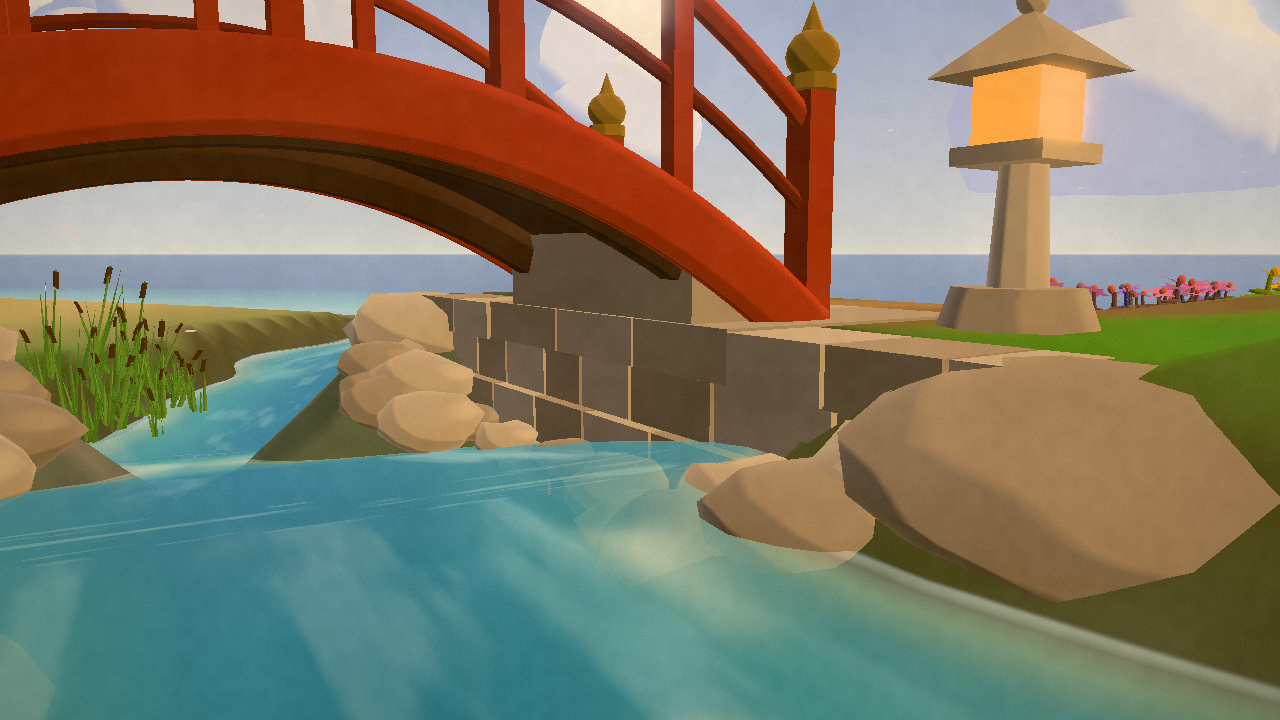
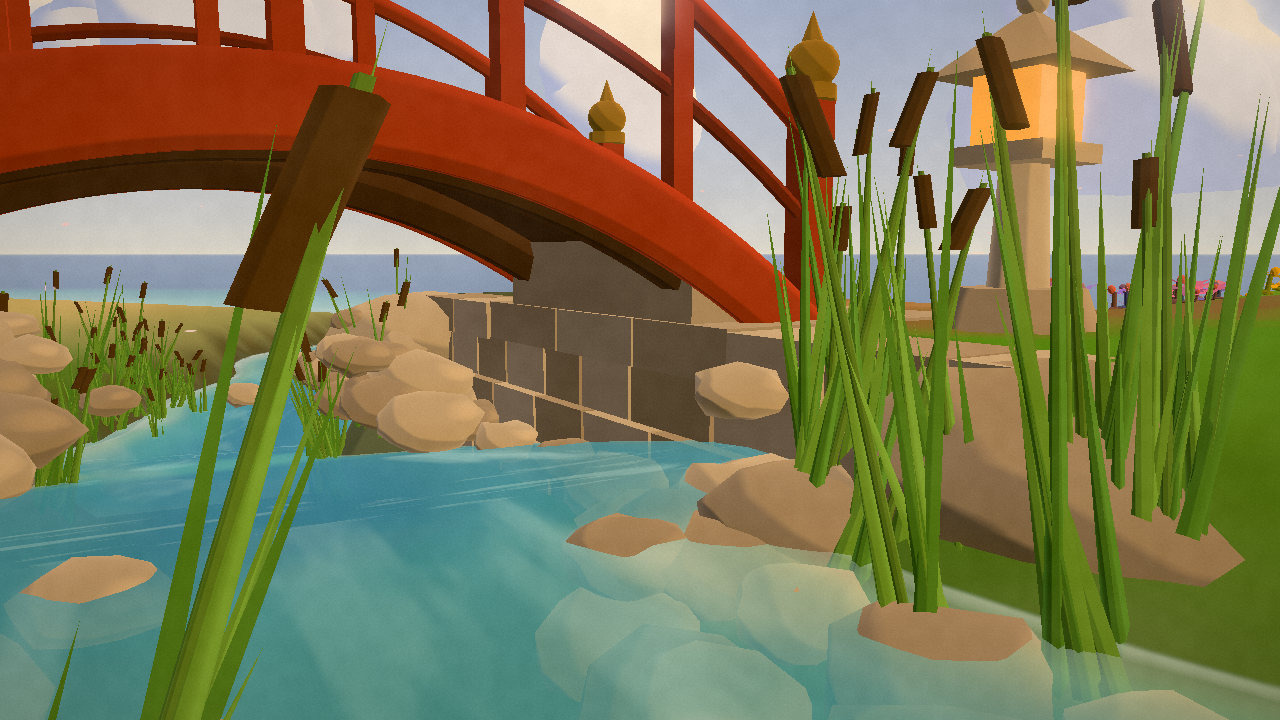
bridge: deck ends flush with the threshold, riprap and rushes on the abutment banks, steeper grassy bank shoulders, grass down to the brook edge

diff --git a/src/models/brook.ts b/src/models/brook.ts
@@ -485,7 +485,7 @@ function createWeir(): THREE.Group {
 
 // ---------------------------------------------------------------- bridge
 const BR_L = 2 * BR_ABUT.ends, BR_A = 0.95, BR_HALF_W = 0.95;
-const deckY = (u: number) => BR_ABUT.coping + 0.04 + BR_A * (1 - (2 * u / BR_L) ** 2);
+const deckY = (u: number) => BR_ABUT.coping - 0.005 + BR_A * (1 - (2 * u / BR_L) ** 2);
 function createBridge(): THREE.Group {
   const g = new THREE.Group();
   g.position.set(BRIDGE.x, 0, BRIDGE.z); g.rotation.y = Math.atan2(BRIDGE_DIR.x, BRIDGE_DIR.y); // local z along the path
@@ -523,6 +523,10 @@ function createBridge(): THREE.Group {
       quad(u0 + seam, u1, 0, cA.clone().lerp(cB, pr()));
     }
     for (let i = 0; i < nP; i++) quad(-ends + (i / nP) * BR_L, -ends + ((i + 1) / nP) * BR_L, -0.1, cU, true);
+    // a sill board across each end, flush with the coping, hides the deck's end grain
+    for (const e of [-1, 1]) { const k = pos.length / 3, y = BR_ABUT.coping - 0.012, u0 = e * ends, u1 = e * (ends + 0.12);
+      pos.push(-hw, y, u0, hw, y, u0, hw, y, u1, -hw, y, u1); for (let q2 = 0; q2 < 4; q2++) col.push(cS.r, cS.g, cS.b);
+      if (e > 0) ind.push(k, k + 2, k + 1, k, k + 3, k + 2); else ind.push(k, k + 1, k + 2, k, k + 2, k + 3); }
     const dg = new THREE.BufferGeometry();
     dg.setAttribute('position', new THREE.Float32BufferAttribute(pos, 3)); dg.setAttribute('color', new THREE.Float32BufferAttribute(col, 3)); dg.setIndex(ind);
     dg.computeVertexNormals();
@@ -582,6 +586,25 @@ function createBridge(): THREE.Group {
     for (const s2 of [-1, 1]) for (let q = 0; q < 5; q++) { const tq = q / 4;
       const rk = new THREE.Mesh(blob(0.26 + pr() * 0.1, 1, 0.3, q + s2 * 3 + sgn * 11, 0.6), q % 2 ? stoneDk : stone);
       rk.position.set(s2 * (wr - 1.3 + tq * 1.0 + (q % 2) * 0.15), lvl - 0.1 + tq * 0.4, sgn * (f - 0.25 - (1 - tq) * 0.2 - (q % 2) * 0.2)); g.add(rk); }
+    // riprap armouring the bank slopes beside the wall, laid along wherever the slope meets the water
+    for (const s2 of [-1, 1]) for (let q = 0; q < 9; q++) {
+      const ww2 = wr - 1.3 + q * 0.42 + (pr() - 0.5) * 0.15;
+      let dd = 0.2;
+      for (; dd < 3.2; dd += 0.05) { const uu = f - dd, wxp = BRIDGE.x + BRIDGE_DIR.y * s2 * ww2 + BRIDGE_DIR.x * sgn * uu, wzp = BRIDGE.z - BRIDGE_DIR.x * s2 * ww2 + BRIDGE_DIR.y * sgn * uu; if (heightAt(wxp, wzp) < lvl + 0.02) break; }
+      if (dd >= 3.2) continue;
+      for (const o of [-0.12, 0.25]) {
+        const rk = new THREE.Mesh(blob(0.17 + pr() * 0.12, 1, 0.33, 90 + q * 3 + s2 * 5 + sgn * 31 + (o > 0 ? 1 : 0), 0.6), (q + (o > 0 ? 1 : 0)) % 2 ? stone : stoneDk);
+        const uu = f - dd - o, wxp = BRIDGE.x + BRIDGE_DIR.y * s2 * ww2 + BRIDGE_DIR.x * sgn * uu, wzp = BRIDGE.z - BRIDGE_DIR.x * s2 * ww2 + BRIDGE_DIR.y * sgn * uu;
+        rk.position.set(s2 * ww2, Math.max(heightAt(wxp, wzp), lvl - 0.12) + 0.03, sgn * uu); rk.rotation.y = pr() * 3; g.add(rk);
+      }
+    }
+    // the earth banks against the wall ends: tufts of rushes and a scatter of half-buried stones break the slope
+    for (const s2 of [-1, 1]) for (let q = 0; q < 4; q++) {
+      const rk = new THREE.Mesh(blob(0.14 + pr() * 0.1, 1, 0.35, 70 + q + s2 * 4 + sgn * 17, 0.55), q % 2 ? stoneDk : stone);
+      const dd = 0.3 + pr() * 1.0, ww2 = wr - 1.0 + pr() * 1.6;
+      const drop = yc - 0.03 - (lvl - 0.3);
+      rk.position.set(s2 * ww2, yc - 0.03 - drop * Math.min(1, (dd / 1.5) ** 1.6) + 0.02, sgn * (f - dd)); rk.rotation.y = pr() * 3; g.add(rk);
+    }
     // wall-end boulders: big mossy stones bedded where each wall end meets the bank, so no cut end shows
     for (const s2 of [-1, 1]) {
       const bg = blob(0.62 + pr() * 0.1, 1, 0.3, 40 + s2 * 5 + sgn * 9, 0.62);
@@ -686,6 +709,18 @@ function createBanks(): THREE.Group {
       ps.set(x, Math.max(heightAt(x, z), streamNearest(x, z).level - 0.25) - 0.05, z);
       e.set((rand() - 0.5) * 0.25, rand() * 6.28, (rand() - 0.5) * 0.25);
       const k2 = 0.55 + rand() * 0.4; sc.set(k2, k2 * (0.8 + rand() * 0.5), k2);
+      reeds.setMatrixAt(n++, mt.compose(ps, q.setFromEuler(e), sc));
+    }
+  }
+  // rushes on the earth banks against the bridge wall ends (real banks are overgrown there; hides the cut slope)
+  for (const sgn of [-1, 1]) for (const s2 of [-1, 1]) {
+    const wc = s2 * (BR_ABUT.wing - 0.1), uc = sgn * (BR_ABUT.face - 0.55);
+    for (let k = 0; k < 11 && n < 420; k++) {
+      const w = wc + (rand() - 0.5) * 1.3, u = uc + (rand() - 0.5) * 0.7 * sgn;
+      const x = BRIDGE.x + BRIDGE_DIR.y * w + BRIDGE_DIR.x * u, z = BRIDGE.z - BRIDGE_DIR.x * w + BRIDGE_DIR.y * u;
+      ps.set(x, Math.max(heightAt(x, z), streamNearest(x, z).level - 0.25) - 0.05, z);
+      e.set((rand() - 0.5) * 0.3, rand() * 6.28, (rand() - 0.5) * 0.3);
+      const k2 = 0.6 + rand() * 0.45; sc.set(k2, k2 * (0.85 + rand() * 0.5), k2);
       reeds.setMatrixAt(n++, mt.compose(ps, q.setFromEuler(e), sc));
     }
   }

diff --git a/src/world/terrain.ts b/src/world/terrain.ts
@@ -311,9 +311,10 @@ export const BR_ABUT = { face: BR_CW - 0.1, ends: BR_CW + 0.6, back: BR_CW + 1.5
       const k = smoothstep(wr + 3, wr + 0.6, w) * smoothstep(A.back + 6, A.back + 1.5, u);
       heights[idx(i, j)] = w <= wr + 0.6 ? lerp(h, plat, k) : lerp(h, Math.max(h, plat - (w - wr - 0.6) * 0.6), k);
     } else {
-      const ramp = Math.max(h, yc - 0.03 - Math.max(0, f - u) * 1.0);
+      const dd = Math.max(0, f - u), drop = yc - 0.03 - (streamNearest(x, z).level - 0.3);
+      const ramp = Math.max(h, yc - 0.03 - drop * Math.min(1, (dd / 0.7) ** 1.3));
       const deep = Math.min(h, streamNearest(x, z).level - 0.4);
-      const toRamp = smoothstep(wr - 1.4, wr - 0.5, w), toNat = smoothstep(wr + 0.4, wr + 2.0, w);
+      const toRamp = smoothstep(wr - 1.0, wr - 0.3, w), toNat = smoothstep(wr + 0.2, wr + 1.3, w);
       heights[idx(i, j)] = lerp(lerp(deep, ramp, toRamp), h, toNat);
     }
   }
@@ -439,13 +440,16 @@ export function surfaceAt(x: number, z: number): { color: THREE.Color; kind: Sur
   if (sd0 < 12) {
     const cw = channelHalf(st0);
     c.lerp(C.lush, smoothstep(9, 3, sd0) * 0.45);
-    const bankT = smoothstep(cw + 1.1, cw + 0.55, sd0);
+    let bankT = smoothstep(cw + 0.7, cw + 0.3, sd0);
+    // beside the bridge abutments the banks are grassed (and stone-armoured at the waterline), not bare earth
+    { const bx = x - BRIDGE.x, bz = z - BRIDGE.z, ba = Math.abs(bx * BRIDGE_DIR.x + bz * BRIDGE_DIR.y), bw = Math.abs(bx * BRIDGE_DIR.y - bz * BRIDGE_DIR.x);
+      if (ba < BR_ABUT.face + 0.5 && bw < BR_ABUT.wing + 3) bankT *= 0.25 + 0.75 * smoothstep(BR_ABUT.wing + 1.5, BR_ABUT.wing + 3, bw); }
     tmpRock.copy(C.bank).lerp(C.pebble, smoothstep(0.6, 0.85, fine) * 0.6);
     c.lerp(tmpRock, bankT * 0.85);
     const bedT = smoothstep(cw + 0.1, cw - 0.3, sd0);
     tmpRock.copy(C.bed).lerp(C.pebble, smoothstep(0.45, 0.8, fine) * 0.7);
     c.lerp(tmpRock, bedT);
-    grassiness *= 1 - smoothstep(cw + 1.0, cw + 0.5, sd0);
+    grassiness *= 1 - smoothstep(cw + 0.65, cw + 0.3, sd0);
     if (sd0 < cw * 0.8) kind = 'water';
   }
   // Worn dirt path with grassy, irregular edges.
@@ -453,7 +457,7 @@ export function surfaceAt(x: number, z: number): { color: THREE.Color; kind: Sur
   let pathT = smoothstep(1.35 + edgeNoise, 0.7 + edgeNoise, pd) * (sd0 < 12 ? smoothstep(channelHalf(st0) + 0.2, channelHalf(st0) + 0.9, sd0) : 1);
   // bridge approach: worn dirt right up to the threshold stones
   { const bx = x - BRIDGE.x, bz = z - BRIDGE.z, ba = Math.abs(bx * BRIDGE_DIR.x + bz * BRIDGE_DIR.y), bw = Math.abs(bx * BRIDGE_DIR.y - bz * BRIDGE_DIR.x);
-    if (ba > BR_ABUT.back - 0.7 && ba < BR_ABUT.back + 6) { const W = lerp(BR_ABUT.wide + 0.2, 0.95, smoothstep(BR_ABUT.back, BR_ABUT.back + 4, ba)); pathT = Math.max(pathT, smoothstep(W + 0.45 + edgeNoise * 0.5, W + edgeNoise * 0.5, bw)); } }
+    if (ba > BR_ABUT.back - 1.0 && ba < BR_ABUT.back + 6) { const W = lerp(BR_ABUT.wide + 0.35, 1.0, smoothstep(BR_ABUT.back + 0.5, BR_ABUT.back + 4.5, ba)); pathT = Math.max(pathT, smoothstep(W + 0.5 + edgeNoise * 0.5, W + edgeNoise * 0.4, bw)); } }
   if (pathT > 0) {
     tmpRock.copy(C.pathEdge).lerp(C.path, smoothstep(1.0, 0.3, pd));
     c.lerp(tmpRock, pathT);

diff --git a/src/world/grass.ts b/src/world/grass.ts
@@ -1,7 +1,7 @@
 import * as THREE from 'three';
 import { mulberry32, fbm2, smoothstep } from '../lib/noise';
 import { globalUniforms, CLOUD_SHADOW_GLSL } from '../render/toon';
-import { heightAt, surfaceAt, streamDistAt, streamTAt, channelHalf, MILL, MILL_YAW, BRIDGE, BRIDGE_DIR } from './terrain';
+import { heightAt, surfaceAt, streamDistAt, streamTAt, streamNearest, channelHalf, MILL, MILL_YAW, BRIDGE, BRIDGE_DIR } from './terrain';
 
 /**
  * Wind-blown grass: instanced tapered blades. Colour comes from the painted ground below,
@@ -50,7 +50,8 @@ export function createGrass(count = 140000, radius = 78) {
     const surf = surfaceAt(x, z);
     // authored clearings keep the shrine/bridge silhouettes readable from their reveal shots
     const shrineClear = Math.hypot(x - 30, z + 20) < 9;
-    const streamClear = streamDistAt(x, z) < channelHalf(streamTAt(x, z)) + 0.8;
+    const sdx = streamDistAt(x, z), scw = channelHalf(streamTAt(x, z));
+    const streamClear = sdx < scw + 0.1 || (sdx < scw + 2 && heightAt(x, z) < streamNearest(x, z).level + 0.08);
     const mdx = x - MILL.x, mdz = z - MILL.z, mc = Math.cos(MILL_YAW), ms = Math.sin(MILL_YAW);
     const mlx = mdx * mc - mdz * ms, mlz = mdx * ms + mdz * mc;
     const millClear = Math.abs(mlx) < 3.9 && mlz > -4.6 && mlz < 3.4;
